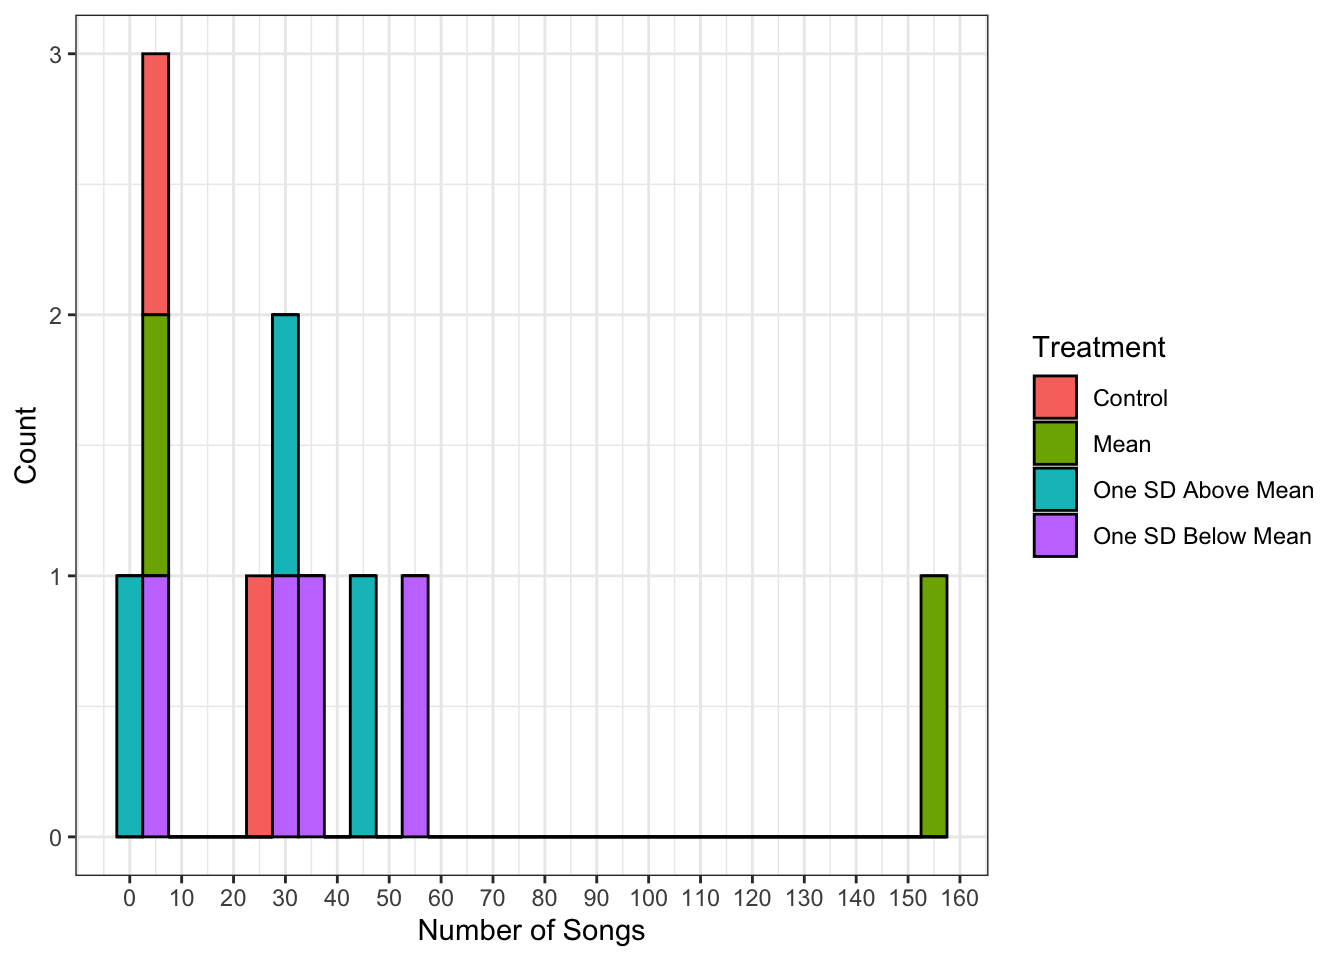
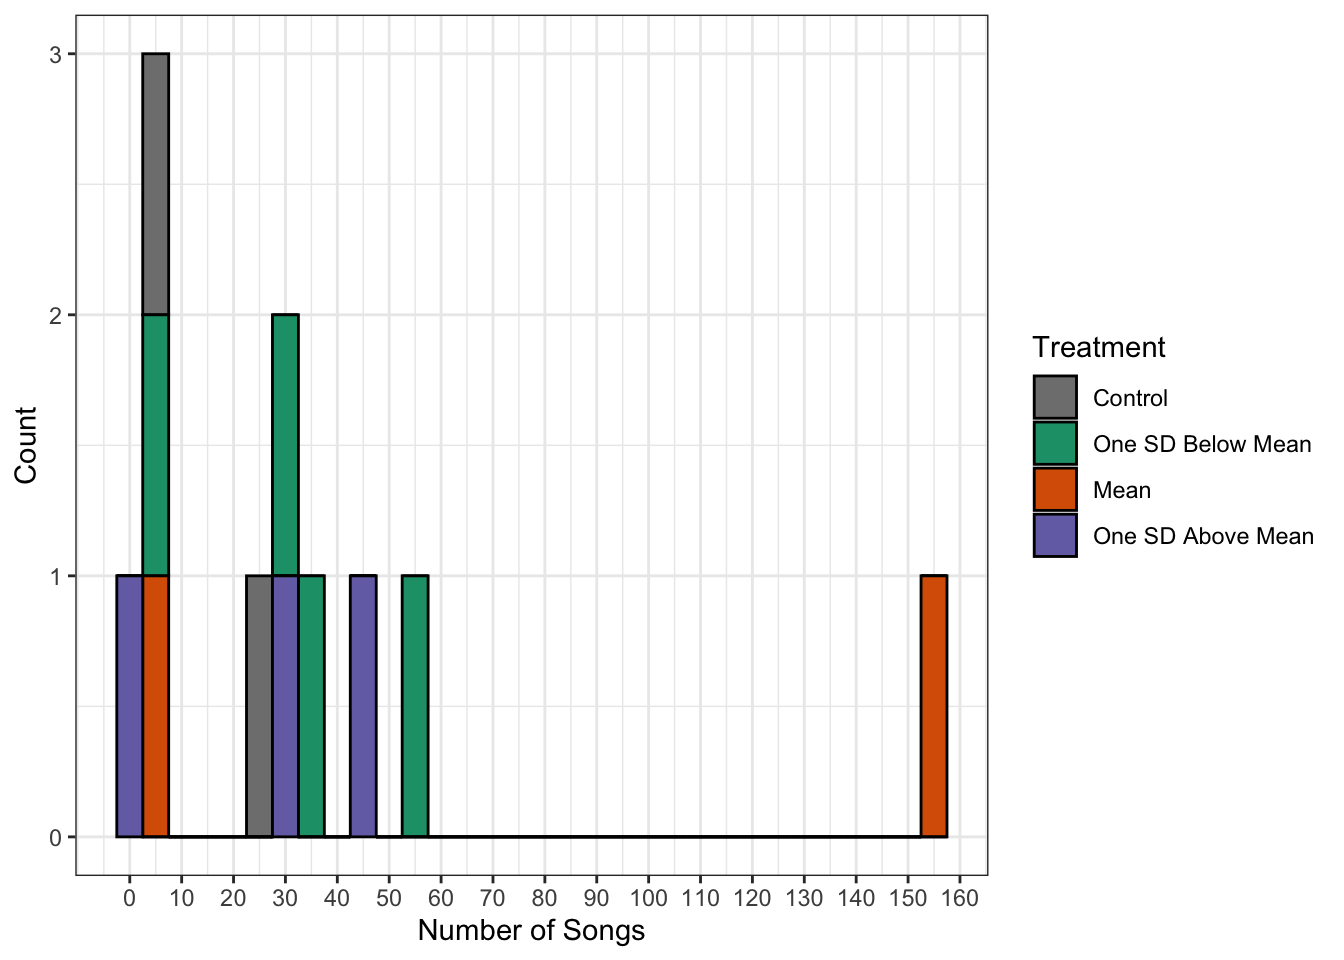
Fixing and adding visualizations

diff --git a/data_analysis.html b/data_analysis.html
@@ -420,14 +420,16 @@ pre > code.sourceCode > span > a:first-child::before { text-decoration: underlin
 <span id="cb11-24"><a href="#cb11-24" aria-hidden="true" tabindex="-1"></a>  <span class="fu">left_join</span>(number_of_songs_within_10_metres, <span class="at">by =</span> <span class="fu">c</span>(<span class="st">"bands"</span>, <span class="st">"treatment"</span>)) <span class="sc">%&gt;%</span></span>
 <span id="cb11-25"><a href="#cb11-25" aria-hidden="true" tabindex="-1"></a>  <span class="fu">left_join</span>(physical_attacks, <span class="at">by =</span> <span class="fu">c</span>(<span class="st">"bands"</span>, <span class="st">"treatment"</span>)) <span class="sc">%&gt;%</span></span>
 <span id="cb11-26"><a href="#cb11-26" aria-hidden="true" tabindex="-1"></a>  <span class="fu">left_join</span>(number_of_stimuli, <span class="at">by =</span> <span class="fu">c</span>(<span class="st">"bands"</span>, <span class="st">"treatment"</span>)) <span class="sc">%&gt;%</span></span>
-<span id="cb11-27"><a href="#cb11-27" aria-hidden="true" tabindex="-1"></a>  <span class="fu">mutate</span>(<span class="at">treatment =</span> <span class="fu">recode</span>(treatment,</span>
-<span id="cb11-28"><a href="#cb11-28" aria-hidden="true" tabindex="-1"></a>    <span class="st">"10"</span> <span class="ot">=</span> <span class="st">"One SD Above Mean"</span>,</span>
-<span id="cb11-29"><a href="#cb11-29" aria-hidden="true" tabindex="-1"></a>    <span class="st">"16"</span> <span class="ot">=</span> <span class="st">"Mean"</span>,</span>
-<span id="cb11-30"><a href="#cb11-30" aria-hidden="true" tabindex="-1"></a>    <span class="st">"22"</span> <span class="ot">=</span> <span class="st">"One SD Below Mean"</span></span>
-<span id="cb11-31"><a href="#cb11-31" aria-hidden="true" tabindex="-1"></a>  )) <span class="sc">%&gt;%</span></span>
-<span id="cb11-32"><a href="#cb11-32" aria-hidden="true" tabindex="-1"></a>  <span class="fu">relocate</span>(time_of_trial, <span class="at">.before =</span> bands) <span class="sc">%&gt;%</span></span>
-<span id="cb11-33"><a href="#cb11-33" aria-hidden="true" tabindex="-1"></a>  <span class="fu">relocate</span>(date_of_trial, <span class="at">.before =</span> time_of_trial) <span class="sc">%&gt;%</span></span>
-<span id="cb11-34"><a href="#cb11-34" aria-hidden="true" tabindex="-1"></a>  <span class="fu">select</span>(<span class="sc">-</span><span class="fu">c</span>(pbstart_time, first_time_within_10))</span></code></pre></div><button title="Copy to Clipboard" class="code-copy-button"><i class="bi"></i></button></div>
+<span id="cb11-27"><a href="#cb11-27" aria-hidden="true" tabindex="-1"></a>  <span class="fu">mutate</span>(<span class="at">treatment =</span> <span class="fu">recode_factor</span>(treatment,</span>
+<span id="cb11-28"><a href="#cb11-28" aria-hidden="true" tabindex="-1"></a>    <span class="st">"Control"</span> <span class="ot">=</span> <span class="st">"Control"</span>,</span>
+<span id="cb11-29"><a href="#cb11-29" aria-hidden="true" tabindex="-1"></a>    <span class="st">"22"</span> <span class="ot">=</span> <span class="st">"One SD Below Mean"</span>,</span>
+<span id="cb11-30"><a href="#cb11-30" aria-hidden="true" tabindex="-1"></a>    <span class="st">"16"</span> <span class="ot">=</span> <span class="st">"Mean"</span>,</span>
+<span id="cb11-31"><a href="#cb11-31" aria-hidden="true" tabindex="-1"></a>    <span class="st">"10"</span> <span class="ot">=</span> <span class="st">"One SD Above Mean"</span>,</span>
+<span id="cb11-32"><a href="#cb11-32" aria-hidden="true" tabindex="-1"></a>    <span class="at">.ordered =</span> <span class="cn">TRUE</span></span>
+<span id="cb11-33"><a href="#cb11-33" aria-hidden="true" tabindex="-1"></a>  )) <span class="sc">%&gt;%</span></span>
+<span id="cb11-34"><a href="#cb11-34" aria-hidden="true" tabindex="-1"></a>  <span class="fu">relocate</span>(time_of_trial, <span class="at">.before =</span> bands) <span class="sc">%&gt;%</span></span>
+<span id="cb11-35"><a href="#cb11-35" aria-hidden="true" tabindex="-1"></a>  <span class="fu">relocate</span>(date_of_trial, <span class="at">.before =</span> time_of_trial) <span class="sc">%&gt;%</span></span>
+<span id="cb11-36"><a href="#cb11-36" aria-hidden="true" tabindex="-1"></a>  <span class="fu">select</span>(<span class="sc">-</span><span class="fu">c</span>(pbstart_time, first_time_within_10))</span></code></pre></div><button title="Copy to Clipboard" class="code-copy-button"><i class="bi"></i></button></div>
 </div>
 </section>
 </section>
@@ -436,7 +438,7 @@ pre > code.sourceCode > span > a:first-child::before { text-decoration: underlin
 <section id="number-of-songs-graphs" class="level2">
 <h2 class="anchored" data-anchor-id="number-of-songs-graphs">Number of Songs Graphs</h2>
 <div class="tabset-margin-container"></div><div class="panel-tabset">
-<ul class="nav nav-tabs" role="tablist"><li class="nav-item" role="presentation"><a class="nav-link active" id="tabset-1-1-tab" data-bs-toggle="tab" data-bs-target="#tabset-1-1" role="tab" aria-controls="tabset-1-1" aria-selected="true" href="">Overall</a></li><li class="nav-item" role="presentation"><a class="nav-link" id="tabset-1-2-tab" data-bs-toggle="tab" data-bs-target="#tabset-1-2" role="tab" aria-controls="tabset-1-2" aria-selected="false" href="">Bar Chart</a></li></ul>
+<ul class="nav nav-tabs" role="tablist"><li class="nav-item" role="presentation"><a class="nav-link active" id="tabset-1-1-tab" data-bs-toggle="tab" data-bs-target="#tabset-1-1" role="tab" aria-controls="tabset-1-1" aria-selected="true" href="">Overall Histogram</a></li><li class="nav-item" role="presentation"><a class="nav-link" id="tabset-1-2-tab" data-bs-toggle="tab" data-bs-target="#tabset-1-2" role="tab" aria-controls="tabset-1-2" aria-selected="false" href="">Bar Chart</a></li><li class="nav-item" role="presentation"><a class="nav-link" id="tabset-1-3-tab" data-bs-toggle="tab" data-bs-target="#tabset-1-3" role="tab" aria-controls="tabset-1-3" aria-selected="false" href="">Boxplot Half Violin Plot with Jittered Data</a></li></ul>
 <div class="tab-content">
 <div id="tabset-1-1" class="tab-pane active" role="tabpanel" aria-labelledby="tabset-1-1-tab">
 <div class="cell">
@@ -451,7 +453,8 @@ pre > code.sourceCode > span > a:first-child::before { text-decoration: underlin
 <span id="cb12-9"><a href="#cb12-9" aria-hidden="true" tabindex="-1"></a>    <span class="at">fill =</span> <span class="st">"Treatment"</span></span>
 <span id="cb12-10"><a href="#cb12-10" aria-hidden="true" tabindex="-1"></a>  ) <span class="sc">+</span></span>
 <span id="cb12-11"><a href="#cb12-11" aria-hidden="true" tabindex="-1"></a>  <span class="fu">scale_x_continuous</span>(<span class="at">breaks =</span> <span class="fu">seq</span>(<span class="dv">0</span>, <span class="fu">ceiling</span>(<span class="fu">max</span>(cleaned_summary_dataset<span class="sc">$</span>number_of_songs, <span class="at">na.rm =</span> <span class="cn">TRUE</span>)<span class="sc">/</span><span class="dv">10</span>)<span class="sc">*</span><span class="dv">10</span>, <span class="dv">10</span>)) <span class="sc">+</span></span>
-<span id="cb12-12"><a href="#cb12-12" aria-hidden="true" tabindex="-1"></a>  <span class="fu">theme_bw</span>()</span></code></pre></div><button title="Copy to Clipboard" class="code-copy-button"><i class="bi"></i></button></div>
+<span id="cb12-12"><a href="#cb12-12" aria-hidden="true" tabindex="-1"></a>  <span class="fu">theme_bw</span>() <span class="sc">+</span></span>
+<span id="cb12-13"><a href="#cb12-13" aria-hidden="true" tabindex="-1"></a>  <span class="fu">scale_fill_manual</span>(<span class="at">values =</span> <span class="fu">c</span>(<span class="st">"gray50"</span>, <span class="st">"#1b9e77"</span>,<span class="st">"#d95f02"</span>, <span class="st">"#7570b3"</span> ))</span></code></pre></div><button title="Copy to Clipboard" class="code-copy-button"><i class="bi"></i></button></div>
 <div class="cell-output cell-output-stderr">
 <pre><code>Warning: Removed 41 rows containing non-finite outside the scale range
 (`stat_bin()`).</code></pre>
@@ -481,7 +484,9 @@ pre > code.sourceCode > span > a:first-child::before { text-decoration: underlin
 <span id="cb16-6"><a href="#cb16-6" aria-hidden="true" tabindex="-1"></a>    <span class="at">y =</span> <span class="st">"Number of Songs"</span>,</span>
 <span id="cb16-7"><a href="#cb16-7" aria-hidden="true" tabindex="-1"></a>    <span class="at">fill =</span> <span class="st">"Treatment"</span></span>
 <span id="cb16-8"><a href="#cb16-8" aria-hidden="true" tabindex="-1"></a>  ) <span class="sc">+</span></span>
-<span id="cb16-9"><a href="#cb16-9" aria-hidden="true" tabindex="-1"></a>  <span class="fu">theme</span>(<span class="at">legend.position =</span> <span class="st">"none"</span>, <span class="at">axis.text.x =</span> <span class="fu">element_text</span>(<span class="at">face =</span> <span class="st">"bold"</span>))</span></code></pre></div><button title="Copy to Clipboard" class="code-copy-button"><i class="bi"></i></button></div>
+<span id="cb16-9"><a href="#cb16-9" aria-hidden="true" tabindex="-1"></a>  <span class="fu">scale_fill_manual</span>(<span class="at">values =</span> <span class="fu">c</span>(<span class="st">"gray50"</span>, <span class="st">"#1b9e77"</span>,<span class="st">"#d95f02"</span>, <span class="st">"#7570b3"</span> ))<span class="sc">+</span></span>
+<span id="cb16-10"><a href="#cb16-10" aria-hidden="true" tabindex="-1"></a>  <span class="fu">theme_bw</span>() <span class="sc">+</span></span>
+<span id="cb16-11"><a href="#cb16-11" aria-hidden="true" tabindex="-1"></a>  <span class="fu">theme</span>(<span class="at">legend.position =</span> <span class="st">"none"</span>, <span class="at">axis.text.x =</span> <span class="fu">element_text</span>(<span class="at">face =</span> <span class="st">"bold"</span>))</span></code></pre></div><button title="Copy to Clipboard" class="code-copy-button"><i class="bi"></i></button></div>
 <div class="cell-output cell-output-stderr">
 <pre><code>Warning: Removed 41 rows containing missing values or values outside the scale range
 (`geom_col()`).</code></pre>
@@ -501,11 +506,210 @@ pre > code.sourceCode > span > a:first-child::before { text-decoration: underlin
 <div class="cell-output cell-output-stdout">
 <pre><code># A tibble: 4 × 2
   treatment             n
-  &lt;chr&gt;             &lt;int&gt;
+  &lt;ord&gt;             &lt;int&gt;
 1 Control              31
-2 Mean                158
-3 One SD Above Mean    72
-4 One SD Below Mean   122</code></pre>
+2 One SD Below Mean   122
+3 Mean                158
+4 One SD Above Mean    72</code></pre>
+</div>
+</div>
+</div>
+<div id="tabset-1-3" class="tab-pane" role="tabpanel" aria-labelledby="tabset-1-3-tab">
+<div class="cell">
+<div class="code-copy-outer-scaffold"><div class="sourceCode cell-code" id="cb20"><pre class="sourceCode r code-with-copy"><code class="sourceCode r"><span id="cb20-1"><a href="#cb20-1" aria-hidden="true" tabindex="-1"></a><span class="fu">ggplot</span>(cleaned_summary_dataset,</span>
+<span id="cb20-2"><a href="#cb20-2" aria-hidden="true" tabindex="-1"></a>       <span class="fu">aes</span>(<span class="at">x =</span> treatment,<span class="at">y =</span> number_of_songs)) <span class="sc">+</span></span>
+<span id="cb20-3"><a href="#cb20-3" aria-hidden="true" tabindex="-1"></a>  <span class="fu">geom_boxplot</span>(<span class="fu">aes</span>(<span class="at">fill =</span> treatment),</span>
+<span id="cb20-4"><a href="#cb20-4" aria-hidden="true" tabindex="-1"></a>               <span class="at">width =</span> <span class="fl">0.2</span>,</span>
+<span id="cb20-5"><a href="#cb20-5" aria-hidden="true" tabindex="-1"></a>               <span class="at">outlier.colour =</span> <span class="st">"firebrick2"</span>) <span class="sc">+</span></span>
+<span id="cb20-6"><a href="#cb20-6" aria-hidden="true" tabindex="-1"></a>  <span class="fu">geom_violinhalf</span>(<span class="fu">aes</span>(<span class="at">fill =</span> treatment),</span>
+<span id="cb20-7"><a href="#cb20-7" aria-hidden="true" tabindex="-1"></a>                  <span class="at">alpha =</span> <span class="fl">0.25</span>,</span>
+<span id="cb20-8"><a href="#cb20-8" aria-hidden="true" tabindex="-1"></a>                  <span class="at">position =</span> <span class="fu">position_nudge</span>(<span class="at">x =</span> <span class="fl">0.10</span>),) <span class="sc">+</span></span>
+<span id="cb20-9"><a href="#cb20-9" aria-hidden="true" tabindex="-1"></a>  <span class="fu">geom_jitter</span>(<span class="at">alpha =</span> <span class="fl">0.5</span>,</span>
+<span id="cb20-10"><a href="#cb20-10" aria-hidden="true" tabindex="-1"></a>              <span class="at">width =</span> <span class="fl">0.05</span>) <span class="sc">+</span></span>
+<span id="cb20-11"><a href="#cb20-11" aria-hidden="true" tabindex="-1"></a>  <span class="fu">scale_fill_manual</span>(<span class="at">values =</span> <span class="fu">c</span>(<span class="st">"gray50"</span>, <span class="st">"#1b9e77"</span>,<span class="st">"#d95f02"</span>, <span class="st">"#7570b3"</span> )) <span class="sc">+</span></span>
+<span id="cb20-12"><a href="#cb20-12" aria-hidden="true" tabindex="-1"></a>  <span class="fu">labs</span>(</span>
+<span id="cb20-13"><a href="#cb20-13" aria-hidden="true" tabindex="-1"></a>    <span class="at">x =</span> <span class="st">"Treatment"</span>,</span>
+<span id="cb20-14"><a href="#cb20-14" aria-hidden="true" tabindex="-1"></a>    <span class="at">y =</span> <span class="st">"Number of Songs"</span>,</span>
+<span id="cb20-15"><a href="#cb20-15" aria-hidden="true" tabindex="-1"></a>    <span class="at">fill =</span> <span class="st">"Treatment"</span></span>
+<span id="cb20-16"><a href="#cb20-16" aria-hidden="true" tabindex="-1"></a>  ) <span class="sc">+</span></span>
+<span id="cb20-17"><a href="#cb20-17" aria-hidden="true" tabindex="-1"></a>  <span class="fu">theme_bw</span>() <span class="sc">+</span></span>
+<span id="cb20-18"><a href="#cb20-18" aria-hidden="true" tabindex="-1"></a>  <span class="fu">theme</span>(<span class="at">axis.text.x =</span> <span class="fu">element_blank</span>())</span></code></pre></div><button title="Copy to Clipboard" class="code-copy-button"><i class="bi"></i></button></div>
+<div class="cell-output cell-output-stderr">
+<pre><code>Warning: Removed 41 rows containing non-finite outside the scale range
+(`stat_boxplot()`).</code></pre>
+</div>
+<div class="cell-output cell-output-stderr">
+<pre><code>Warning: Removed 41 rows containing non-finite outside the scale range
+(`stat_ydensity()`).</code></pre>
+</div>
+<div class="cell-output cell-output-stderr">
+<pre><code>Warning: Removed 41 rows containing missing values or values outside the scale range
+(`geom_point()`).</code></pre>
+</div>
+<div class="cell-output-display">
+<div>
+<figure class="figure">
+<p><img src="data_analysis_files/figure-html/unnamed-chunk-5-1.png" class="img-fluid figure-img" width="672"></p>
+</figure>
+</div>
+</div>
+</div>
+</div>
+</div>
+</div>
+<div class="cell">
+<div class="code-copy-outer-scaffold"><div class="sourceCode cell-code" id="cb24"><pre class="sourceCode r code-with-copy"><code class="sourceCode r"><span id="cb24-1"><a href="#cb24-1" aria-hidden="true" tabindex="-1"></a><span class="fu">ggplot</span>(<span class="at">data =</span> cleaned_summary_dataset, <span class="fu">aes</span>(<span class="at">x =</span> treatment, <span class="at">y =</span> number_of_songs, <span class="at">group =</span> bands, <span class="at">color =</span> bands)) <span class="sc">+</span></span>
+<span id="cb24-2"><a href="#cb24-2" aria-hidden="true" tabindex="-1"></a>  <span class="fu">geom_point</span>() <span class="sc">+</span> </span>
+<span id="cb24-3"><a href="#cb24-3" aria-hidden="true" tabindex="-1"></a>  <span class="fu">geom_line</span>()</span></code></pre></div><button title="Copy to Clipboard" class="code-copy-button"><i class="bi"></i></button></div>
+<div class="cell-output cell-output-stderr">
+<pre><code>Warning: Removed 41 rows containing missing values or values outside the scale range
+(`geom_point()`).</code></pre>
+</div>
+<div class="cell-output cell-output-stderr">
+<pre><code>Warning: Removed 39 rows containing missing values or values outside the scale range
+(`geom_line()`).</code></pre>
+</div>
+<div class="cell-output-display">
+<div>
+<figure class="figure">
+<p><img src="data_analysis_files/figure-html/unnamed-chunk-6-1.png" class="img-fluid figure-img" width="672"></p>
+</figure>
+</div>
+</div>
+</div>
+</section>
+<section id="number-of-songs-while-within-10-metres-graphs" class="level2">
+<h2 class="anchored" data-anchor-id="number-of-songs-while-within-10-metres-graphs">Number of Songs While Within 10 Metres Graphs</h2>
+<div class="tabset-margin-container"></div><div class="panel-tabset">
+<ul class="nav nav-tabs" role="tablist"><li class="nav-item" role="presentation"><a class="nav-link active" id="tabset-2-1-tab" data-bs-toggle="tab" data-bs-target="#tabset-2-1" role="tab" aria-controls="tabset-2-1" aria-selected="true" href="">Overall Histogram</a></li><li class="nav-item" role="presentation"><a class="nav-link" id="tabset-2-2-tab" data-bs-toggle="tab" data-bs-target="#tabset-2-2" role="tab" aria-controls="tabset-2-2" aria-selected="false" href="">Bar Chart</a></li><li class="nav-item" role="presentation"><a class="nav-link" id="tabset-2-3-tab" data-bs-toggle="tab" data-bs-target="#tabset-2-3" role="tab" aria-controls="tabset-2-3" aria-selected="false" href="">Boxplot Half Violin Plot with Jittered Data</a></li></ul>
+<div class="tab-content">
+<div id="tabset-2-1" class="tab-pane active" role="tabpanel" aria-labelledby="tabset-2-1-tab">
+<div class="cell">
+<div class="code-copy-outer-scaffold"><div class="sourceCode cell-code" id="cb27"><pre class="sourceCode r code-with-copy"><code class="sourceCode r"><span id="cb27-1"><a href="#cb27-1" aria-hidden="true" tabindex="-1"></a><span class="fu">ggplot</span>(cleaned_summary_dataset, <span class="fu">aes</span>(<span class="at">x =</span> number_of_songs_while_within_10_meters, <span class="at">fill =</span> treatment)) <span class="sc">+</span></span>
+<span id="cb27-2"><a href="#cb27-2" aria-hidden="true" tabindex="-1"></a>  <span class="fu">geom_histogram</span>(</span>
+<span id="cb27-3"><a href="#cb27-3" aria-hidden="true" tabindex="-1"></a>    <span class="at">binwidth =</span> <span class="dv">5</span>,</span>
+<span id="cb27-4"><a href="#cb27-4" aria-hidden="true" tabindex="-1"></a>    <span class="at">colour =</span> <span class="st">"black"</span>,</span>
+<span id="cb27-5"><a href="#cb27-5" aria-hidden="true" tabindex="-1"></a>  ) <span class="sc">+</span></span>
+<span id="cb27-6"><a href="#cb27-6" aria-hidden="true" tabindex="-1"></a>  <span class="fu">labs</span>(</span>
+<span id="cb27-7"><a href="#cb27-7" aria-hidden="true" tabindex="-1"></a>    <span class="at">x =</span> <span class="st">"Number of Songs While Within 10 Metres"</span>,</span>
+<span id="cb27-8"><a href="#cb27-8" aria-hidden="true" tabindex="-1"></a>    <span class="at">y =</span> <span class="st">"Count"</span>,</span>
+<span id="cb27-9"><a href="#cb27-9" aria-hidden="true" tabindex="-1"></a>    <span class="at">fill =</span> <span class="st">"Treatment"</span></span>
+<span id="cb27-10"><a href="#cb27-10" aria-hidden="true" tabindex="-1"></a>  ) <span class="sc">+</span></span>
+<span id="cb27-11"><a href="#cb27-11" aria-hidden="true" tabindex="-1"></a>  <span class="fu">scale_x_continuous</span>(<span class="at">breaks =</span> <span class="fu">seq</span>(<span class="dv">0</span>, <span class="fu">ceiling</span>(<span class="fu">max</span>(cleaned_summary_dataset<span class="sc">$</span>number_of_songs, <span class="at">na.rm =</span> <span class="cn">TRUE</span>)<span class="sc">/</span><span class="dv">10</span>)<span class="sc">*</span><span class="dv">10</span>, <span class="dv">10</span>)) <span class="sc">+</span></span>
+<span id="cb27-12"><a href="#cb27-12" aria-hidden="true" tabindex="-1"></a>  <span class="fu">theme_bw</span>() <span class="sc">+</span></span>
+<span id="cb27-13"><a href="#cb27-13" aria-hidden="true" tabindex="-1"></a>  <span class="fu">scale_fill_manual</span>(<span class="at">values =</span> <span class="fu">c</span>(<span class="st">"gray50"</span>, <span class="st">"#1b9e77"</span>,<span class="st">"#d95f02"</span>, <span class="st">"#7570b3"</span> ))</span></code></pre></div><button title="Copy to Clipboard" class="code-copy-button"><i class="bi"></i></button></div>
+<div class="cell-output cell-output-stderr">
+<pre><code>Warning: Removed 50 rows containing non-finite outside the scale range
+(`stat_bin()`).</code></pre>
+</div>
+<div class="cell-output-display">
+<div>
+<figure class="figure">
+<p><img src="data_analysis_files/figure-html/unnamed-chunk-7-1.png" class="img-fluid figure-img" width="672"></p>
+</figure>
+</div>
+</div>
+</div>
+<div class="cell">
+<div class="code-copy-outer-scaffold"><div class="sourceCode cell-code" id="cb29"><pre class="sourceCode r code-with-copy"><code class="sourceCode r"><span id="cb29-1"><a href="#cb29-1" aria-hidden="true" tabindex="-1"></a><span class="fu">max</span>(cleaned_summary_dataset<span class="sc">$</span>number_of_songs_while_within_10_meters, <span class="at">na.rm =</span> <span class="cn">TRUE</span>)</span></code></pre></div><button title="Copy to Clipboard" class="code-copy-button"><i class="bi"></i></button></div>
+<div class="cell-output cell-output-stdout">
+<pre><code>[1] 7</code></pre>
+</div>
+</div>
+</div>
+<div id="tabset-2-2" class="tab-pane" role="tabpanel" aria-labelledby="tabset-2-2-tab">
+<div class="cell">
+<div class="code-copy-outer-scaffold"><div class="sourceCode cell-code" id="cb31"><pre class="sourceCode r code-with-copy"><code class="sourceCode r"><span id="cb31-1"><a href="#cb31-1" aria-hidden="true" tabindex="-1"></a><span class="fu">ggplot</span>(cleaned_summary_dataset, <span class="fu">aes</span>(<span class="at">x =</span> treatment, <span class="at">y =</span> number_of_songs_while_within_10_meters, <span class="at">fill =</span> treatment)) <span class="sc">+</span></span>
+<span id="cb31-2"><a href="#cb31-2" aria-hidden="true" tabindex="-1"></a>  <span class="fu">geom_col</span>(<span class="at">colour =</span> <span class="st">"black"</span>) <span class="sc">+</span></span>
+<span id="cb31-3"><a href="#cb31-3" aria-hidden="true" tabindex="-1"></a>  <span class="fu">scale_y_continuous</span>(<span class="at">breaks =</span> <span class="fu">seq</span>(<span class="dv">0</span>, <span class="fu">ceiling</span>(<span class="fu">max</span>(cleaned_summary_dataset<span class="sc">$</span>number_of_songs, <span class="at">na.rm =</span> <span class="cn">TRUE</span>)<span class="sc">/</span><span class="dv">10</span>)<span class="sc">*</span><span class="dv">10</span>, <span class="dv">10</span>)) <span class="sc">+</span></span>
+<span id="cb31-4"><a href="#cb31-4" aria-hidden="true" tabindex="-1"></a>  <span class="fu">labs</span>(</span>
+<span id="cb31-5"><a href="#cb31-5" aria-hidden="true" tabindex="-1"></a>    <span class="at">x =</span> <span class="st">"Treatment"</span>,</span>
+<span id="cb31-6"><a href="#cb31-6" aria-hidden="true" tabindex="-1"></a>    <span class="at">y =</span> <span class="st">"Number of Songs While Within 10 Metres"</span>,</span>
+<span id="cb31-7"><a href="#cb31-7" aria-hidden="true" tabindex="-1"></a>    <span class="at">fill =</span> <span class="st">"Treatment"</span></span>
+<span id="cb31-8"><a href="#cb31-8" aria-hidden="true" tabindex="-1"></a>  ) <span class="sc">+</span></span>
+<span id="cb31-9"><a href="#cb31-9" aria-hidden="true" tabindex="-1"></a>  <span class="fu">scale_fill_manual</span>(<span class="at">values =</span> <span class="fu">c</span>(<span class="st">"gray50"</span>, <span class="st">"#1b9e77"</span>,<span class="st">"#d95f02"</span>, <span class="st">"#7570b3"</span> ))<span class="sc">+</span></span>
+<span id="cb31-10"><a href="#cb31-10" aria-hidden="true" tabindex="-1"></a>  <span class="fu">theme_bw</span>() <span class="sc">+</span></span>
+<span id="cb31-11"><a href="#cb31-11" aria-hidden="true" tabindex="-1"></a>  <span class="fu">theme</span>(<span class="at">legend.position =</span> <span class="st">"none"</span>, <span class="at">axis.text.x =</span> <span class="fu">element_text</span>(<span class="at">face =</span> <span class="st">"bold"</span>))</span></code></pre></div><button title="Copy to Clipboard" class="code-copy-button"><i class="bi"></i></button></div>
+<div class="cell-output cell-output-stderr">
+<pre><code>Warning: Removed 50 rows containing missing values or values outside the scale range
+(`geom_col()`).</code></pre>
+</div>
+<div class="cell-output-display">
+<div>
+<figure class="figure">
+<p><img src="data_analysis_files/figure-html/unnamed-chunk-9-1.png" class="img-fluid figure-img" width="672"></p>
+</figure>
+</div>
+</div>
+</div>
+<div class="cell">
+<div class="code-copy-outer-scaffold"><div class="sourceCode cell-code" id="cb33"><pre class="sourceCode r code-with-copy"><code class="sourceCode r"><span id="cb33-1"><a href="#cb33-1" aria-hidden="true" tabindex="-1"></a>cleaned_summary_dataset <span class="sc">%&gt;%</span></span>
+<span id="cb33-2"><a href="#cb33-2" aria-hidden="true" tabindex="-1"></a>  <span class="fu">group_by</span>(treatment) <span class="sc">%&gt;%</span></span>
+<span id="cb33-3"><a href="#cb33-3" aria-hidden="true" tabindex="-1"></a>  <span class="fu">summarise</span>(<span class="at">n =</span> <span class="fu">sum</span>(number_of_songs_while_within_10_meters, <span class="at">na.rm =</span> <span class="cn">TRUE</span>))</span></code></pre></div><button title="Copy to Clipboard" class="code-copy-button"><i class="bi"></i></button></div>
+<div class="cell-output cell-output-stdout">
+<pre><code># A tibble: 4 × 2
+  treatment             n
+  &lt;ord&gt;             &lt;int&gt;
+1 Control               0
+2 One SD Below Mean     7
+3 Mean                  0
+4 One SD Above Mean     2</code></pre>
+</div>
+</div>
+</div>
+<div id="tabset-2-3" class="tab-pane" role="tabpanel" aria-labelledby="tabset-2-3-tab">
+<div class="cell">
+<div class="code-copy-outer-scaffold"><div class="sourceCode cell-code" id="cb35"><pre class="sourceCode r code-with-copy"><code class="sourceCode r"><span id="cb35-1"><a href="#cb35-1" aria-hidden="true" tabindex="-1"></a><span class="fu">ggplot</span>(cleaned_summary_dataset,</span>
+<span id="cb35-2"><a href="#cb35-2" aria-hidden="true" tabindex="-1"></a>       <span class="fu">aes</span>(<span class="at">x =</span> treatment,<span class="at">y =</span> number_of_songs_while_within_10_meters)) <span class="sc">+</span></span>
+<span id="cb35-3"><a href="#cb35-3" aria-hidden="true" tabindex="-1"></a>  <span class="fu">geom_boxplot</span>(<span class="fu">aes</span>(<span class="at">fill =</span> treatment),</span>
+<span id="cb35-4"><a href="#cb35-4" aria-hidden="true" tabindex="-1"></a>               <span class="at">width =</span> <span class="fl">0.2</span>,</span>
+<span id="cb35-5"><a href="#cb35-5" aria-hidden="true" tabindex="-1"></a>               <span class="at">outlier.colour =</span> <span class="st">"firebrick2"</span>) <span class="sc">+</span></span>
+<span id="cb35-6"><a href="#cb35-6" aria-hidden="true" tabindex="-1"></a>  <span class="fu">geom_violinhalf</span>(<span class="fu">aes</span>(<span class="at">fill =</span> treatment),</span>
+<span id="cb35-7"><a href="#cb35-7" aria-hidden="true" tabindex="-1"></a>                  <span class="at">alpha =</span> <span class="fl">0.25</span>,</span>
+<span id="cb35-8"><a href="#cb35-8" aria-hidden="true" tabindex="-1"></a>                  <span class="at">position =</span> <span class="fu">position_nudge</span>(<span class="at">x =</span> <span class="fl">0.10</span>),) <span class="sc">+</span></span>
+<span id="cb35-9"><a href="#cb35-9" aria-hidden="true" tabindex="-1"></a>  <span class="fu">geom_jitter</span>(<span class="at">alpha =</span> <span class="fl">0.5</span>,</span>
+<span id="cb35-10"><a href="#cb35-10" aria-hidden="true" tabindex="-1"></a>              <span class="at">width =</span> <span class="fl">0.05</span>) <span class="sc">+</span></span>
+<span id="cb35-11"><a href="#cb35-11" aria-hidden="true" tabindex="-1"></a>  <span class="fu">scale_fill_manual</span>(<span class="at">values =</span> <span class="fu">c</span>(<span class="st">"gray50"</span>, <span class="st">"#1b9e77"</span>,<span class="st">"#d95f02"</span>, <span class="st">"#7570b3"</span> )) <span class="sc">+</span></span>
+<span id="cb35-12"><a href="#cb35-12" aria-hidden="true" tabindex="-1"></a>  <span class="fu">labs</span>(</span>
+<span id="cb35-13"><a href="#cb35-13" aria-hidden="true" tabindex="-1"></a>    <span class="at">x =</span> <span class="st">"Treatment"</span>,</span>
+<span id="cb35-14"><a href="#cb35-14" aria-hidden="true" tabindex="-1"></a>    <span class="at">y =</span> <span class="st">"Number of Songs While Within 10 Meteres"</span>,</span>
+<span id="cb35-15"><a href="#cb35-15" aria-hidden="true" tabindex="-1"></a>    <span class="at">fill =</span> <span class="st">"Treatment"</span></span>
+<span id="cb35-16"><a href="#cb35-16" aria-hidden="true" tabindex="-1"></a>  ) <span class="sc">+</span></span>
+<span id="cb35-17"><a href="#cb35-17" aria-hidden="true" tabindex="-1"></a>  <span class="fu">theme_bw</span>() <span class="sc">+</span></span>
+<span id="cb35-18"><a href="#cb35-18" aria-hidden="true" tabindex="-1"></a>  <span class="fu">theme</span>(<span class="at">axis.text.x =</span> <span class="fu">element_blank</span>())</span></code></pre></div><button title="Copy to Clipboard" class="code-copy-button"><i class="bi"></i></button></div>
+<div class="cell-output cell-output-stderr">
+<pre><code>Warning: Removed 50 rows containing non-finite outside the scale range
+(`stat_boxplot()`).</code></pre>
+</div>
+<div class="cell-output cell-output-stderr">
+<pre><code>Warning: Removed 50 rows containing non-finite outside the scale range
+(`stat_ydensity()`).</code></pre>
+</div>
+<div class="cell-output cell-output-stderr">
+<pre><code>Warning: Groups with fewer than two datapoints have been dropped.
+ℹ Set `drop = FALSE` to consider such groups for position adjustment purposes.
+Groups with fewer than two datapoints have been dropped.
+ℹ Set `drop = FALSE` to consider such groups for position adjustment purposes.</code></pre>
+</div>
+<div class="cell-output cell-output-stderr">
+<pre><code>Warning in max(data$density, na.rm = TRUE): no non-missing arguments to max;
+returning -Inf</code></pre>
+</div>
+<div class="cell-output cell-output-stderr">
+<pre><code>Warning: Computation failed in `stat_ydensity()`.
+Caused by error in `$&lt;-.data.frame`:
+! replacement has 1 row, data has 0</code></pre>
+</div>
+<div class="cell-output cell-output-stderr">
+<pre><code>Warning: Removed 50 rows containing missing values or values outside the scale range
+(`geom_point()`).</code></pre>
+</div>
+<div class="cell-output-display">
+<div>
+<figure class="figure">
+<p><img src="data_analysis_files/figure-html/unnamed-chunk-11-1.png" class="img-fluid figure-img" width="672"></p>
+</figure>
+</div>
 </div>
 </div>
 </div>